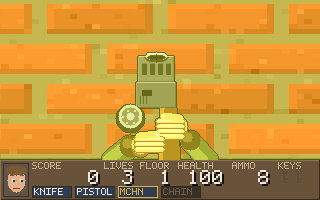
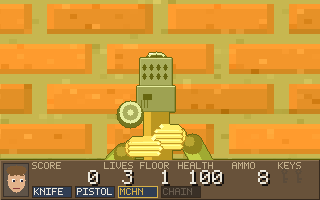
Rebuild the first-person weapon art so the guns read as held
The old sprite put both hands in one lump beside a thin stick of a grip.
Each weapon now gets a proper grip with the hands wrapping it, narrower
fingers, a lit top edge per hand, and a rim that stops at the cell edge
instead of boxing the sprite in.

Generated with Codebuff 🤖

Changed region(s): [[0.3125, 0.24, 0.6875, 0.81]]

diff --git a/crates/wolf3d/src/assets/weapons_art.rs b/crates/wolf3d/src/assets/weapons_art.rs
@@ -91,21 +91,20 @@ fn muzzle(c: &mut Canvas, cx: i32, cy: i32, rx: i32, ry: i32) {
     c.ellipse(cx, cy - 1, (rx - 1).max(1), (ry - 1).max(1), STEEL_LIT);
     c.ellipse(cx, cy, (rx - 3).max(1), (ry - 2).max(1), STEEL_DARK);
     c.ellipse(cx, cy, (rx - 4).max(1), (ry - 3).max(1), BORE);
-    c.hline(cx - (rx - 3), cy - ry + 1, (rx * 2 - 6).max(1), STEEL_HI);
+    c.hline(cx - rx + 2, cy - ry + 1, (rx / 2).max(1), STEEL_HI);
 }
 
 /// A finger wrapping a grip: lit knuckle, shaded underside and a nail on the tip
 fn finger(c: &mut Canvas, a: (i32, i32), b: (i32, i32), radius: i32) {
     limb(c, a, b, radius + 1, SKIN_DEEP);
     limb(c, a, b, radius, SKIN);
-    limb(
-        c,
-        (a.0, a.1 - radius / 2),
-        (b.0, b.1 - radius / 2),
-        (radius / 2).max(1),
+    c.hline(
+        a.0.min(b.0),
+        a.1.max(b.1) - radius / 2,
+        (b.0 - a.0).abs().max(1),
         SKIN_LIT,
     );
-    c.circle(b.0, b.1 - 1, (radius / 2).max(1), NAIL);
+    c.circle(b.0, b.1, (radius / 2).max(1), NAIL);
 }
 
 /// A forearm with a cuff, coming in from the bottom edge
@@ -129,25 +128,22 @@ fn forearm(c: &mut Canvas, shoulder: (i32, i32), wrist: (i32, i32), radius: i32)
 
 /// One hand: a palm, a thumb laid along the gun and fingers curling round the grip.
 /// `side` is -1 for a hand reaching in from the left, 1 for one from the right.
-fn hand(c: &mut Canvas, palm: (i32, i32), side: i32, reach: i32, fingers: i32) {
+fn hand(c: &mut Canvas, palm: (i32, i32), side: i32, reach: i32, fingers: i32, tone: i32) {
     let (px, py) = palm;
-    c.ellipse(px, py + 3, 9, 10, SKIN_DEEP);
-    c.ellipse(px, py, 9, 10, SKIN);
-    c.ellipse(px - side * 2, py - 3, 5, 5, SKIN_LIT);
+    let skin = shade(SKIN, tone);
+    let lit = shade(SKIN_LIT, tone);
+    c.ellipse(px, py, 8, 9, SKIN_DEEP);
+    c.ellipse(px, py - 1, 7, 8, skin);
+    c.ellipse(px - side * 2, py - 3, 3, 3, lit);
 
     for i in 0..fingers {
         let y = py - 5 + i * 5;
-        finger(c, (px + side * 4, y), (reach, y), 2);
+        let extra = [0, 2, 0, -2][i as usize];
+        finger(c, (px + side * 2, y), (reach - side * extra, y), 2);
     }
 
     // Thumb laid along the top of the grip
-    limb(
-        c,
-        (px + side * 2, py - 8),
-        (reach + side * 5, py - 10),
-        3,
-        SKIN,
-    );
+    limb(c, (px + side, py - 8), (reach + side * 5, py - 10), 2, skin);
     c.circle(reach + side * 5, py - 10, 2, NAIL);
 }
 
@@ -228,10 +224,10 @@ fn knife(c: &mut Canvas, frame: usize) {
         WOOD_LIT,
     );
 
-    forearm(c, (104, 128), (94, 108), 10);
-    hand(c, (82, 94), 1, 64, 4);
-    forearm(c, (24, 128), (36, 116), 11);
-    hand(c, (44, 112), -1, 62, 3);
+    forearm(c, (104, 128), (92, 106), 10);
+    hand(c, (78, 100), 1, 64, 4, 0);
+    forearm(c, (24, 128), (38, 118), 11);
+    hand(c, (42, 116), -1, 62, 3, -14);
 
     if frame > 0 {
         for i in 0..3 {
@@ -252,57 +248,51 @@ fn pistol(c: &mut Canvas, frame: usize) {
         2 => 12,
         _ => 0,
     };
-    let top = 26 + recoil;
+    let top = 24 + recoil;
+    let (cx, w) = (60, 24);
 
-    muzzle(c, 60, top, 9, 5);
-    metal(c, 46, top + 3, 28, 44, STEEL);
-    c.rect(46, top + 12, 9, 6, BORE);
-    for i in 0..4 {
-        c.vline(64 + i * 2, top + 10, 12, STEEL_DARK);
+    // Slide seen from behind, with the rear sight and hammer at the near edge
+    muzzle(c, cx, top + 2, 7, 4);
+    metal(c, cx - w / 2, top + 4, w, 44, STEEL);
+    c.hline(cx - w / 2 + 2, top + 4, w - 4, STEEL_HI);
+    c.rect(cx - 7, top + 5, 4, 3, STEEL_DARK);
+    c.rect(cx + 3, top + 5, 4, 3, STEEL_DARK);
+    c.rect(cx - w / 2 + 3, top + 14, 8, 7, BORE);
+    for i in 0..3 {
+        c.vline(cx + 5 + i * 2, top + 30, 9, STEEL_DARK);
     }
-    c.hline(46, top + 46, 28, STEEL_LIT);
-    metal(c, 48, top + 47, 24, 10, shade(STEEL, -16));
-    c.rect(54, top + 49, 12, 4, STEEL_LIT);
+    metal(c, cx - w / 2 + 2, top + 48, w - 4, 8, shade(STEEL, -18));
+    c.rect(cx - 3, top + 44, 6, 5, STEEL_DARK);
 
-    // Grip, angled back to the right like a hand holding it
+    // Grip running down and back between the hands
     quad(
         c,
-        (52, top + 57),
-        (70, top + 57),
-        (78, top + 92),
-        (58, top + 92),
+        (cx - 11, top + 54),
+        (cx + 11, top + 54),
+        (cx + 18, 122),
+        (cx - 6, 122),
         WOOD,
     );
     quad(
         c,
-        (52, top + 57),
-        (56, top + 57),
-        (62, top + 92),
-        (58, top + 92),
+        (cx - 11, top + 54),
+        (cx - 6, top + 54),
+        (cx - 2, 122),
+        (cx - 6, 122),
         WOOD_LIT,
     );
-    quad(
-        c,
-        (66, top + 57),
-        (70, top + 57),
-        (78, top + 92),
-        (74, top + 92),
-        WOOD_DARK,
-    );
-    for row in 0..5 {
-        let y = top + 64 + row * 6;
-        for col in 0..3 {
-            c.set(58 + col * 5 - row / 2, y, WOOD_DARK);
-        }
+    for row in 0..6 {
+        c.set(cx - 3 + row / 2, top + 62 + row * 9, WOOD_DARK);
+        c.set(cx + 7 - row / 2, top + 62 + row * 9, WOOD_DARK);
     }
 
-    forearm(c, (110, 128), (92, 106), 10);
-    hand(c, (80, top + 78), 1, 60, 4);
-    forearm(c, (18, 128), (36, 116), 11);
-    hand(c, (42, top + 96), -1, 64, 3);
+    forearm(c, (112, 140), (96, 112), 10);
+    hand(c, (82, 100), 1, 62, 4, 0);
+    forearm(c, (12, 140), (28, 122), 11);
+    hand(c, (36, 112), -1, 64, 3, -14);
 
     if frame > 0 {
-        flash(c, 60, top - 8, if frame == 1 { 20 } else { 12 });
+        flash(c, cx, top - 8, if frame == 1 { 20 } else { 12 });
     }
 }
 
@@ -313,59 +303,53 @@ fn machine_gun(c: &mut Canvas, frame: usize) {
         2 => 11,
         _ => 0,
     };
-    let top = 24 + recoil;
+    let top = 22 + recoil;
+    let cx = 60;
 
-    metal(c, 42, top, 36, 26, STEEL);
+    muzzle(c, cx, top + 2, 9, 4);
+    metal(c, cx - 16, top + 4, 32, 28, STEEL);
     for i in 0..4 {
-        c.rect(46 + i * 8, top + 7, 5, 12, STEEL_DARK);
-        c.hline(46 + i * 8, top + 7, 5, shade(STEEL_DARK, 34));
+        c.ellipse(cx - 12 + i * 7, top + 13, 2, 3, BORE);
+        c.ellipse(cx - 12 + i * 7, top + 22, 2, 3, BORE);
     }
-    muzzle(c, 60, top + 1, 12, 5);
-    metal(c, 40, top + 26, 40, 26, shade(STEEL, -10));
-    c.rect(46, top + 34, 10, 6, BORE);
+    metal(c, cx - 19, top + 32, 38, 26, shade(STEEL, -12));
+    c.rect(cx - 13, top + 40, 9, 6, BORE);
     for i in 0..3 {
-        c.vline(44 + i * 3, top + 40, 8, STEEL_DARK);
+        c.vline(cx - 15 + i * 3, top + 46, 8, STEEL_DARK);
     }
+    c.hline(cx - 19, top + 32, 38, STEEL_LIT);
 
-    c.circle(34, top + 62, 14, STEEL_DARK);
-    c.circle(34, top + 60, 12, STEEL_LIT);
-    c.circle(34, top + 60, 9, STEEL);
-    c.circle(34, top + 60, 4, STEEL_LIT);
-    for i in 0..6 {
-        let angle = i as f32 * std::f32::consts::TAU / 6.0;
-        c.rect(
-            34 + (angle.cos() * 8.0) as i32,
-            top + 60 + (angle.sin() * 8.0) as i32,
-            2,
-            2,
-            BRASS,
-        );
-    }
+    // Drum magazine clamped to the left of the receiver
+    c.circle(cx - 26, top + 60, 13, STEEL_DARK);
+    c.circle(cx - 26, top + 58, 11, STEEL_LIT);
+    c.circle(cx - 26, top + 58, 8, STEEL);
+    c.circle(cx - 26, top + 58, 3, STEEL_LIT);
 
+    // Wooden stock running down into the hands
     quad(
         c,
-        (64, top + 52),
-        (80, top + 52),
-        (84, 128),
-        (62, 128),
+        (cx - 12, top + 58),
+        (cx + 12, top + 58),
+        (cx + 16, 128),
+        (cx - 12, 128),
         WOOD,
     );
     quad(
         c,
-        (64, top + 52),
-        (68, top + 52),
-        (66, 128),
-        (62, 128),
+        (cx - 12, top + 58),
+        (cx - 6, top + 58),
+        (cx - 4, 128),
+        (cx - 12, 128),
         WOOD_LIT,
     );
 
-    forearm(c, (112, 128), (94, 108), 10);
-    hand(c, (82, top + 70), 1, 62, 4);
-    forearm(c, (16, 128), (34, 114), 11);
-    hand(c, (44, top + 88), -1, 66, 3);
+    forearm(c, (112, 140), (96, 112), 10);
+    hand(c, (82, 104), 1, 60, 4, 0);
+    forearm(c, (12, 140), (28, 122), 11);
+    hand(c, (36, 116), -1, 62, 3, -14);
 
     if frame > 0 {
-        flash(c, 60, top - 9, if frame == 1 { 24 } else { 14 });
+        flash(c, cx, top - 9, if frame == 1 { 24 } else { 14 });
     }
 }
 
@@ -377,54 +361,58 @@ fn chaingun(c: &mut Canvas, frame: usize) {
         3 => 6,
         _ => 0,
     };
-    let top = 22 + recoil;
+    let top = 20 + recoil;
+    let cx = 60;
     let spin = frame as f32 * std::f32::consts::FRAC_PI_4;
 
+    // Four barrels turning inside a collar
     for i in 0..4 {
         let angle = spin + i as f32 * std::f32::consts::FRAC_PI_2;
-        let bx = 60 + (angle.cos() * 11.0) as i32;
-        let by = top + 10 + (angle.sin() * 5.0) as i32;
-        c.rect(bx - 4, by - 8, 8, 22, STEEL);
-        c.vline(bx - 4, by - 8, 22, STEEL_LIT);
-        c.vline(bx + 3, by - 8, 22, STEEL_DARK);
-        muzzle(c, bx, by - 8, 5, 3);
+        let bx = cx + (angle.cos() * 8.0) as i32;
+        let by = top + 10 + (angle.sin() * 4.0) as i32;
+        c.rect(bx - 4, by - 10, 8, 26, STEEL);
+        c.vline(bx - 4, by - 10, 26, STEEL_LIT);
+        c.vline(bx + 3, by - 10, 26, STEEL_DARK);
+        muzzle(c, bx, by - 10, 5, 3);
     }
-    metal(c, 40, top + 12, 40, 10, STEEL_LIT);
-    for i in 0..3 {
-        c.rect(46 + i * 11, top + 14, 4, 4, STEEL_DARK);
-    }
+    c.ellipse(cx, top + 5, 16, 7, STEEL_DARK);
+    c.ellipse(cx, top + 4, 14, 6, STEEL_LIT);
 
-    metal(c, 36, top + 22, 48, 32, shade(STEEL, -8));
+    metal(c, cx - 19, top + 26, 38, 10, STEEL_LIT);
     for i in 0..3 {
-        c.hline(38, top + 28 + i * 9, 44, STEEL_DARK);
-        c.hline(38, top + 29 + i * 9, 44, shade(STEEL, 20));
+        c.rect(cx - 14 + i * 10, top + 29, 4, 4, STEEL_DARK);
     }
-    metal(c, 50, top + 28, 20, 18, STEEL_LIT);
-    c.rect(56, top + 33, 8, 8, STEEL_DARK);
+    metal(c, cx - 21, top + 36, 42, 30, shade(STEEL, -8));
+    for i in 0..3 {
+        c.hline(cx - 19, top + 42 + i * 9, 38, STEEL_DARK);
+        c.hline(cx - 19, top + 43 + i * 9, 38, shade(STEEL, 20));
+    }
+    metal(c, cx - 10, top + 42, 20, 18, STEEL_LIT);
+    c.rect(cx - 4, top + 47, 8, 8, STEEL_DARK);
 
     // Ammo belt feeding in from the left
-    metal(c, 26, top + 34, 12, 22, shade(STEEL, -20));
+    metal(c, cx - 34, top + 46, 12, 22, shade(STEEL, -20));
     for i in 0..4 {
-        c.rect(22, top + 36 + i * 5, 14, 3, BRASS);
-        c.hline(22, top + 36 + i * 5, 14, shade(BRASS, 44));
+        c.rect(cx - 38, top + 48 + i * 5, 14, 3, BRASS);
+        c.hline(cx - 38, top + 48 + i * 5, 14, shade(BRASS, 44));
     }
 
     quad(
         c,
-        (62, top + 52),
-        (78, top + 52),
-        (82, 128),
-        (60, 128),
+        (cx - 8, top + 64),
+        (cx + 10, top + 64),
+        (cx + 14, 128),
+        (cx - 8, 128),
         WOOD,
     );
 
-    forearm(c, (112, 128), (94, 108), 10);
-    hand(c, (80, top + 74), 1, 60, 4);
-    forearm(c, (16, 128), (32, 114), 11);
-    hand(c, (42, top + 92), -1, 64, 3);
+    forearm(c, (112, 140), (96, 112), 10);
+    hand(c, (82, 106), 1, 60, 4, 0);
+    forearm(c, (12, 140), (28, 122), 11);
+    hand(c, (36, 118), -1, 62, 3, -14);
 
     if frame > 0 {
-        flash(c, 60, top - 4, if frame == 1 { 22 } else { 14 });
+        flash(c, cx, top - 6, if frame == 1 { 22 } else { 14 });
     }
 }
 
@@ -465,4 +453,39 @@ pub fn atlas() -> Atlas {
         }
     }
     atlas
+}
+
+#[cfg(test)]
+mod tests {
+    use super::*;
+
+    fn opaque(atlas: &Atlas, x: i32, y: i32) -> bool {
+        let off = ((y * atlas.width + x) * 4) as usize;
+        atlas.data[off + 3] != 0
+    }
+
+    #[test]
+    fn every_frame_is_drawn_and_keeps_off_the_side_edges() {
+        let atlas = atlas();
+        let cell = WEAPON_CELL;
+
+        for index in 0..atlas.cell_count() {
+            let x0 = (index as i32 % atlas.cols) * cell;
+            let y0 = (index as i32 / atlas.cols) * cell;
+            let mut painted = 0;
+
+            for y in 0..cell {
+                for x in 0..cell {
+                    if !opaque(&atlas, x0 + x, y0 + y) {
+                        continue;
+                    }
+                    painted += 1;
+                    let on_edge = x == 0 || x == cell - 1;
+                    assert!(!on_edge, "cell {index} paints the edge at ({x}, {y})");
+                }
+            }
+
+            assert!(painted > cell * cell / 8, "cell {index} is nearly empty");
+        }
+    }
 }
